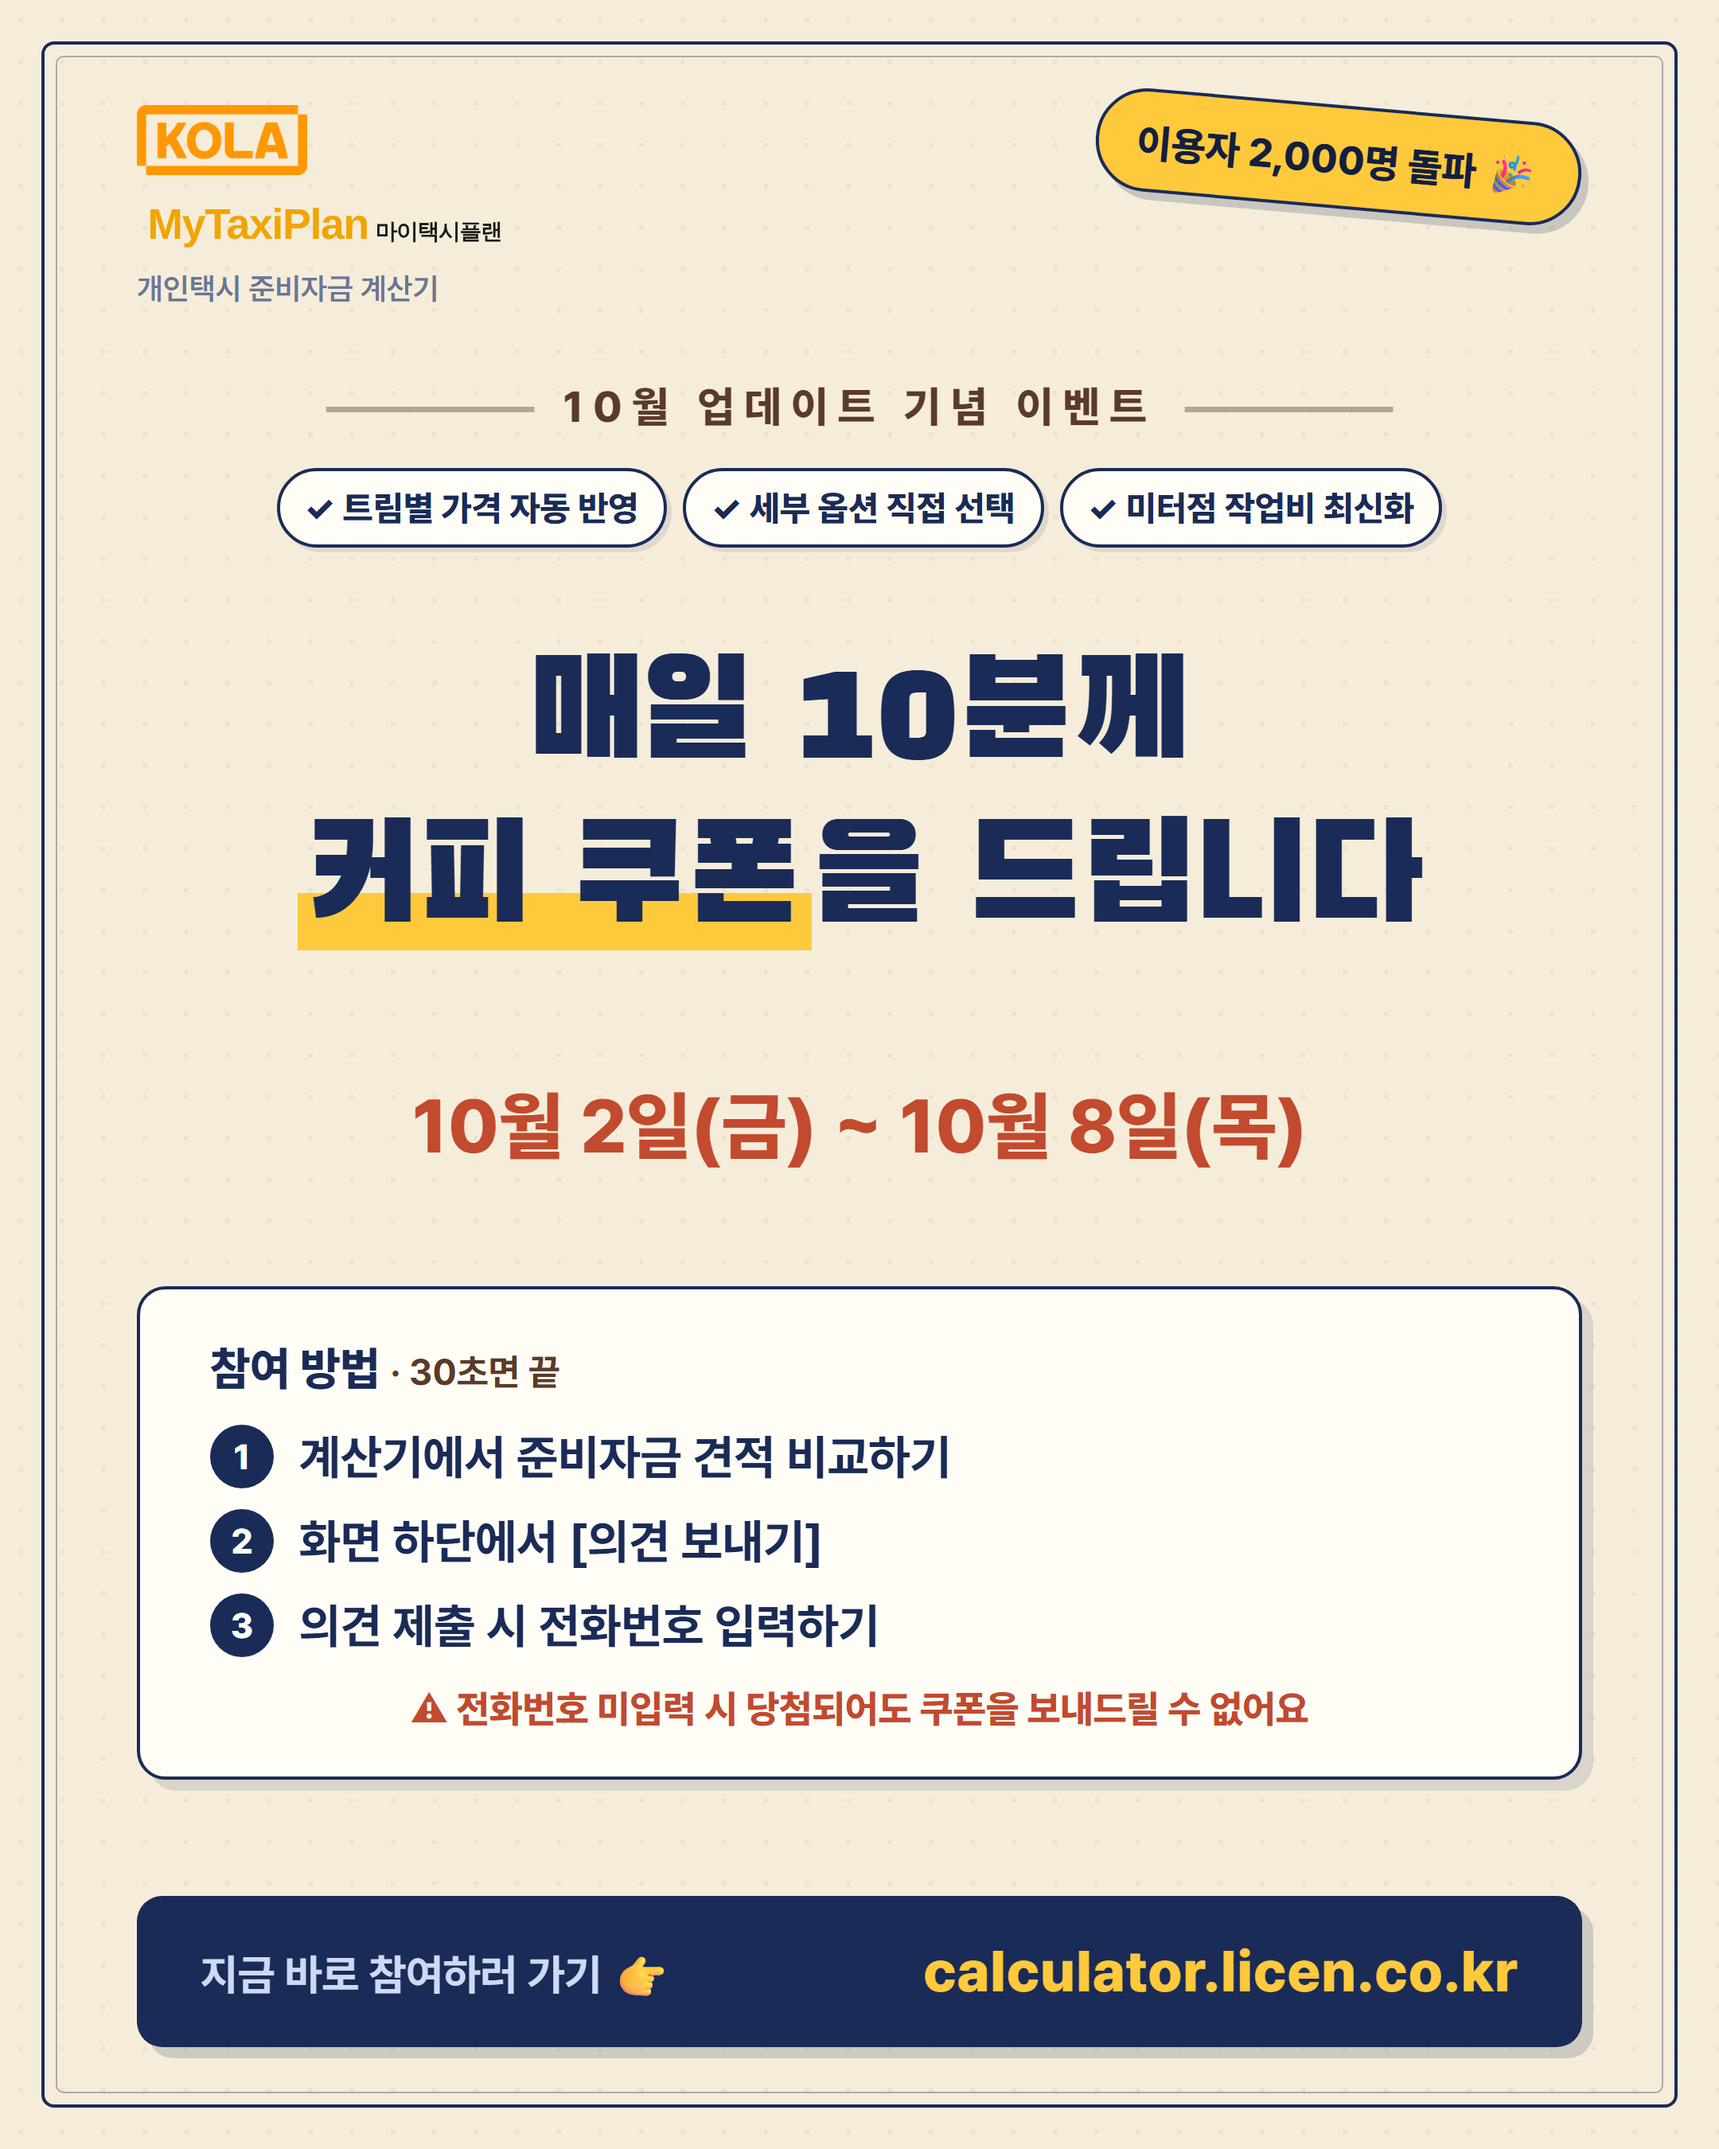
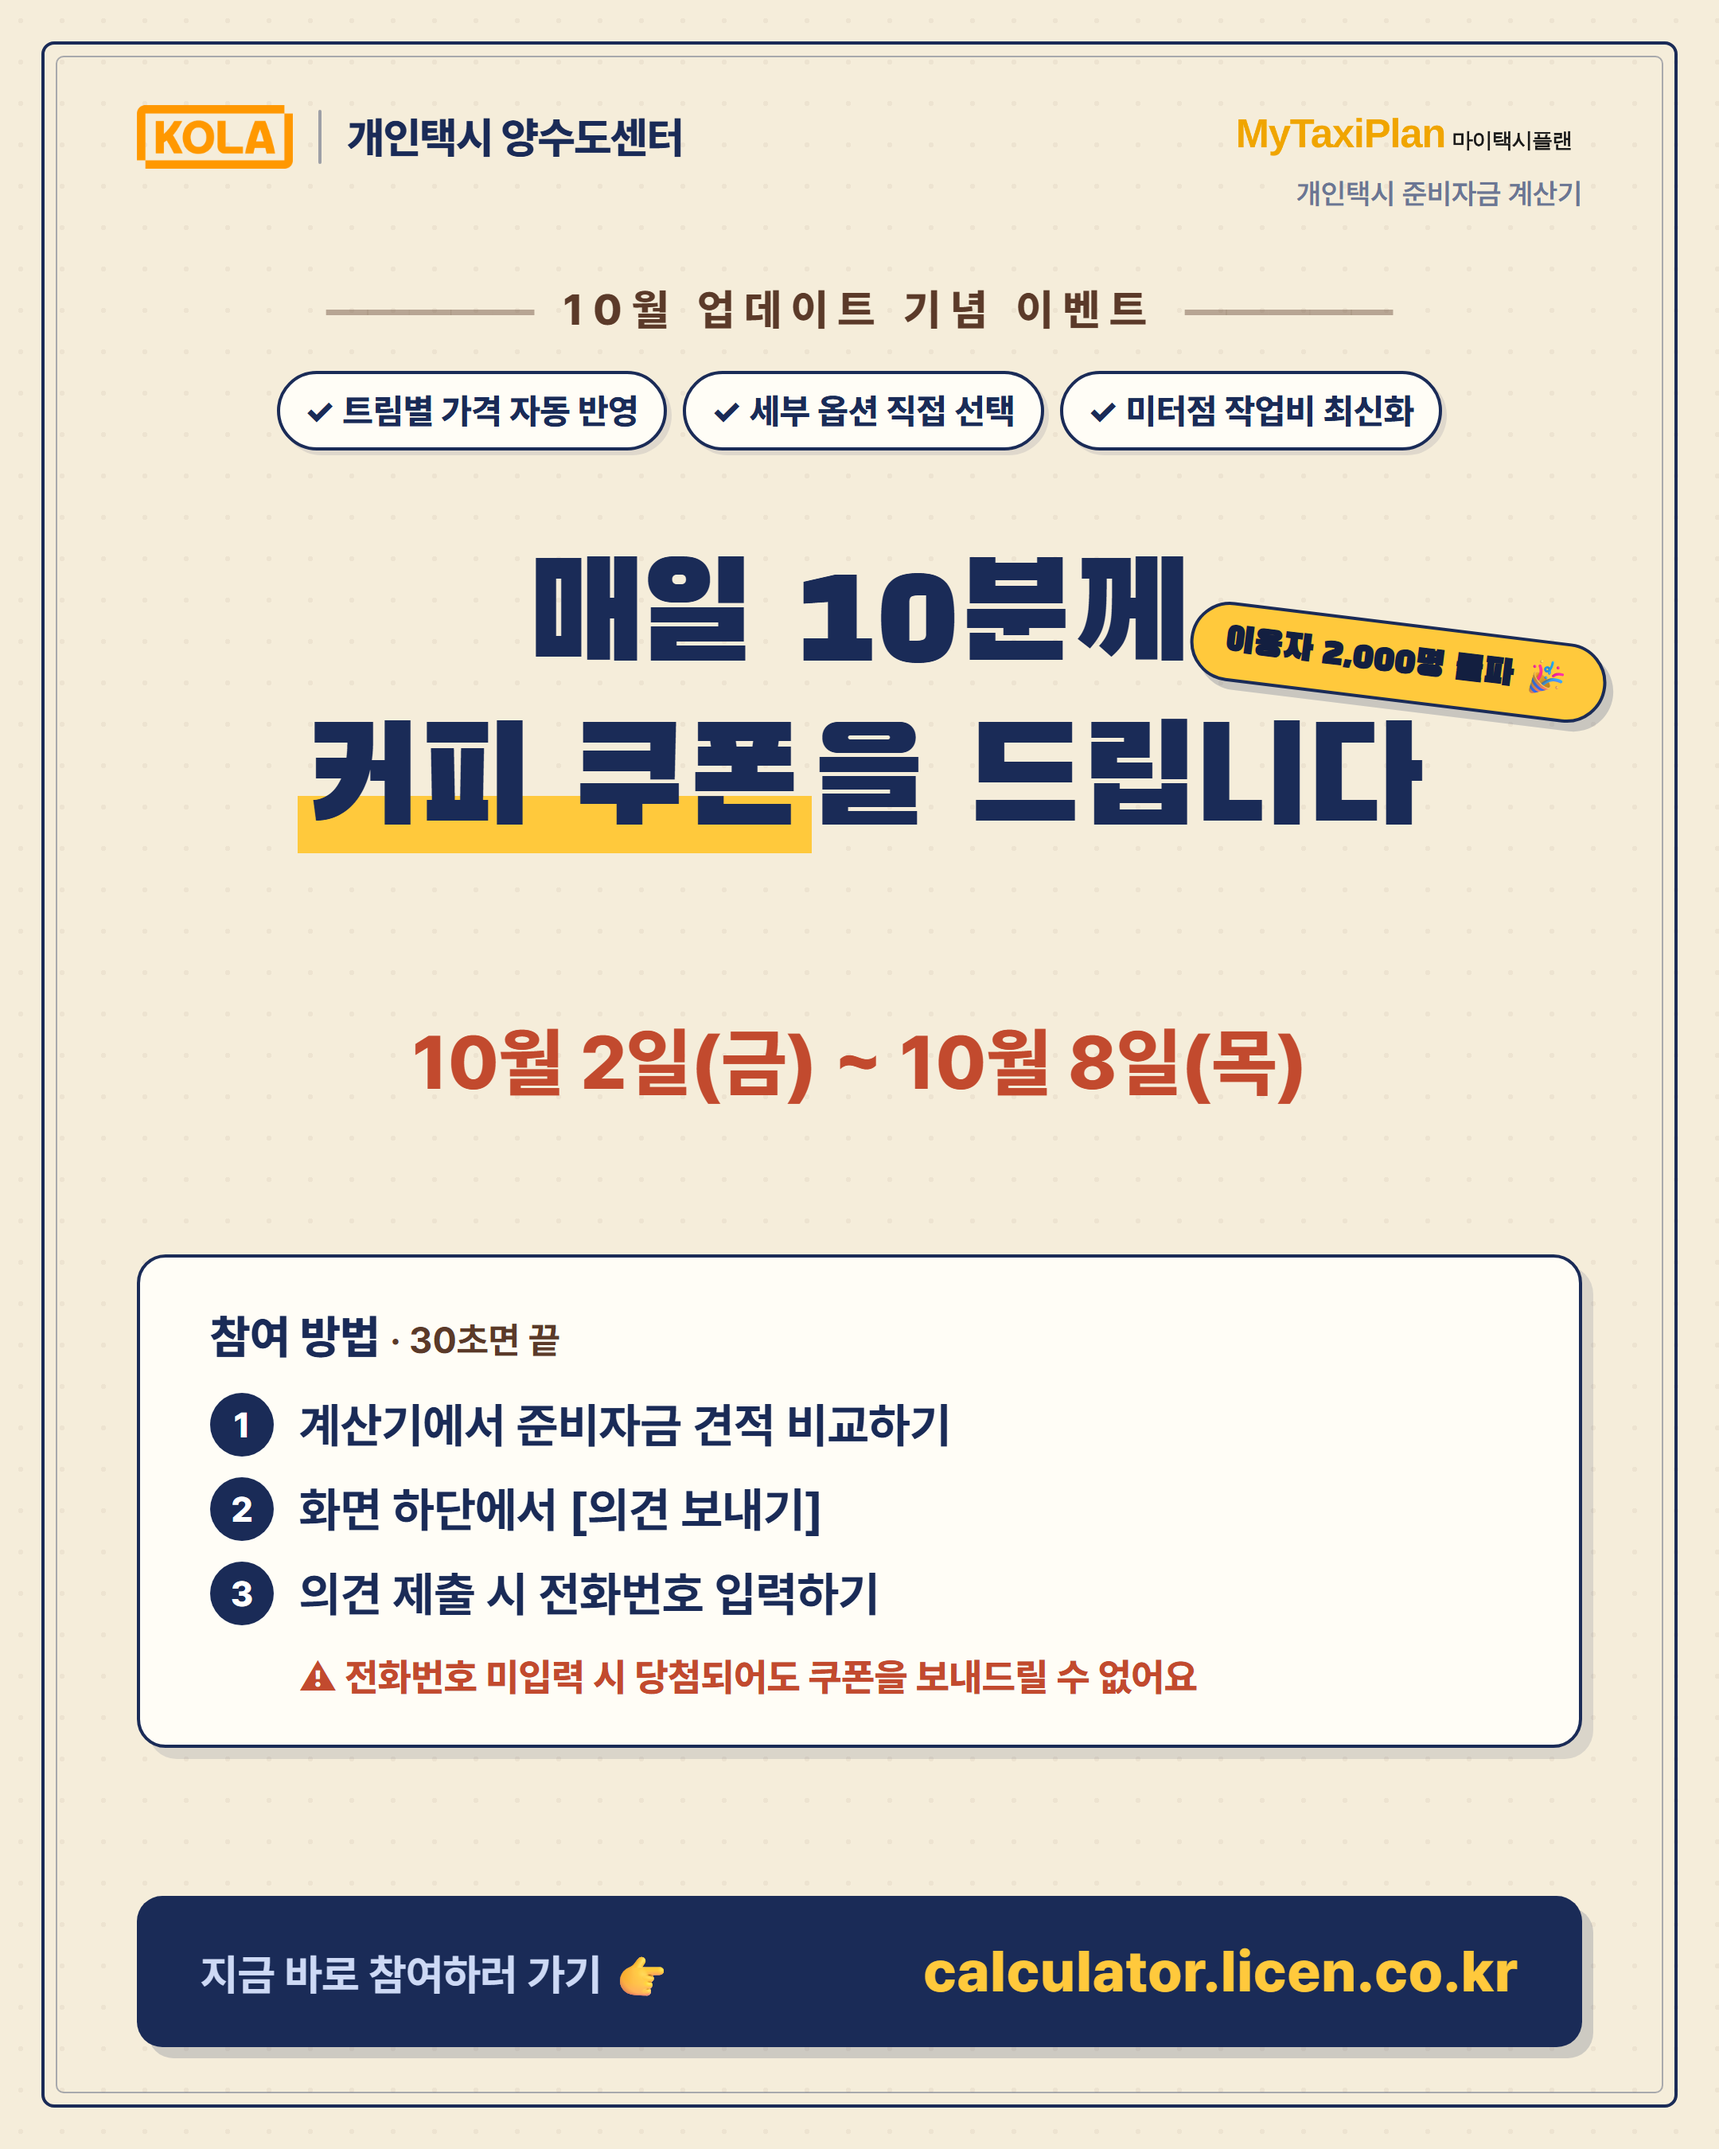
포스터: 상단 KOLA|양수도센터 + 우측 브랜드 로고 재배치, 2,000명 스티커 헤드라인 겹침 배치, 경고문 좌측 정렬

Changed region(s): [[0.062, 0.0311, 0.9616, 0.84], [0.6204, 0.0311, 0.9306, 0.1244]]

diff --git a/promo/2026-10_커피쿠폰_이벤트_포스터.html b/promo/2026-10_커피쿠폰_이벤트_포스터.html
@@ -24,11 +24,15 @@
 
   /* 상단 */
   .top{display:flex;justify-content:space-between;align-items:flex-start;}
-  .logo{font-weight:800;font-size:30px;letter-spacing:-.5px;}
-  .logo small{display:block;font-size:19px;font-weight:600;color:#6b7694;margin-top:10px;letter-spacing:0;}
+  .org{display:flex;align-items:center;gap:16px;}
+  .bar{width:2.5px;height:34px;background:rgba(26,43,87,.4);border-radius:2px;}
+  .orgname{font-size:27px;font-weight:800;color:var(--navy);letter-spacing:-.5px;}
+  .logo2{text-align:right;}
+  .logo2 small{display:block;font-size:18px;font-weight:600;color:#6b7694;margin-top:9px;letter-spacing:0;}
   .sticker{
-    transform:rotate(5deg);background:var(--yellow);color:var(--navy-d);
-    font-weight:800;font-size:25px;padding:14px 24px;border-radius:999px;
+    position:absolute;right:-16px;top:25%;z-index:3;
+    transform:rotate(7deg);background:var(--yellow);color:var(--navy-d);
+    font-weight:800;font-size:22px;padding:10px 20px;border-radius:999px;
     box-shadow:5px 5px 0 rgba(26,43,87,.2);border:2px solid var(--navy);
   }
 
@@ -37,7 +41,7 @@
   .kicker:before,.kicker:after{content:'—————';letter-spacing:0;color:rgba(91,58,41,.4);margin:0 18px;}
   .head{
     margin-top:56px;text-align:center;font-family:'Black Han Sans','Malgun Gothic',sans-serif;
-    font-size:86px;line-height:1.2;letter-spacing:0;font-weight:400;
+    font-size:86px;line-height:1.2;letter-spacing:0;font-weight:400;position:relative;
   }
   .head .hl{background:linear-gradient(transparent 58%, var(--yellow) 58%);padding:0 6px;}
 
@@ -83,7 +87,7 @@
   .row:last-of-type{margin-bottom:0;}
   .n{flex:0 0 40px;height:40px;border-radius:50%;background:var(--navy);color:#fff;font-weight:800;font-size:22px;display:flex;align-items:center;justify-content:center;}
   .row .t{font-size:30px;font-weight:700;}
-  .warn{margin-top:18px;font-size:24px;font-weight:800;color:var(--red);text-align:center;}
+  .warn{margin-top:18px;font-size:24px;font-weight:800;color:var(--red);text-align:left;padding-left:56px;}
 
   /* 하단 */
   .cta{
@@ -99,8 +103,8 @@
   <div class="frame"></div>
   <div class="wrap">
     <div class="top">
-      <div class="logo"><img src="logo/logo_kola.png" style="height:44px;display:block;"><img src="logo/logo_brand_light.png" style="height:38px;display:block;margin-top:12px;"><small>개인택시 준비자금 계산기</small></div>
-      <div class="sticker">이용자 2,000명 돌파 🎉</div>
+      <div class="org"><img src="logo/logo_kola.png" style="height:40px;display:block;"><span class="bar"></span><span class="orgname">개인택시 양수도센터</span></div>
+      <div class="logo2"><img src="logo/logo_brand_light.png" style="height:36px;display:block;margin-left:auto;"><small>개인택시 준비자금 계산기</small></div>
     </div>
 
     <div class="kicker">10월 업데이트 기념 이벤트</div>
@@ -109,7 +113,7 @@
       <div class="chip">✓ 세부 옵션 직접 선택</div>
       <div class="chip">✓ 미터점 작업비 최신화</div>
     </div>
-    <div class="head">매일 10분께<br><span class="hl">커피 쿠폰</span>을 드립니다</div>
+    <div class="head">매일 10분께<br><span class="hl">커피 쿠폰</span>을 드립니다<div class="sticker">이용자 2,000명 돌파 🎉</div></div>
 
     <div class="period"><span class="d">10월 2일(금) ~ 10월 8일(목)</span></div>
 
